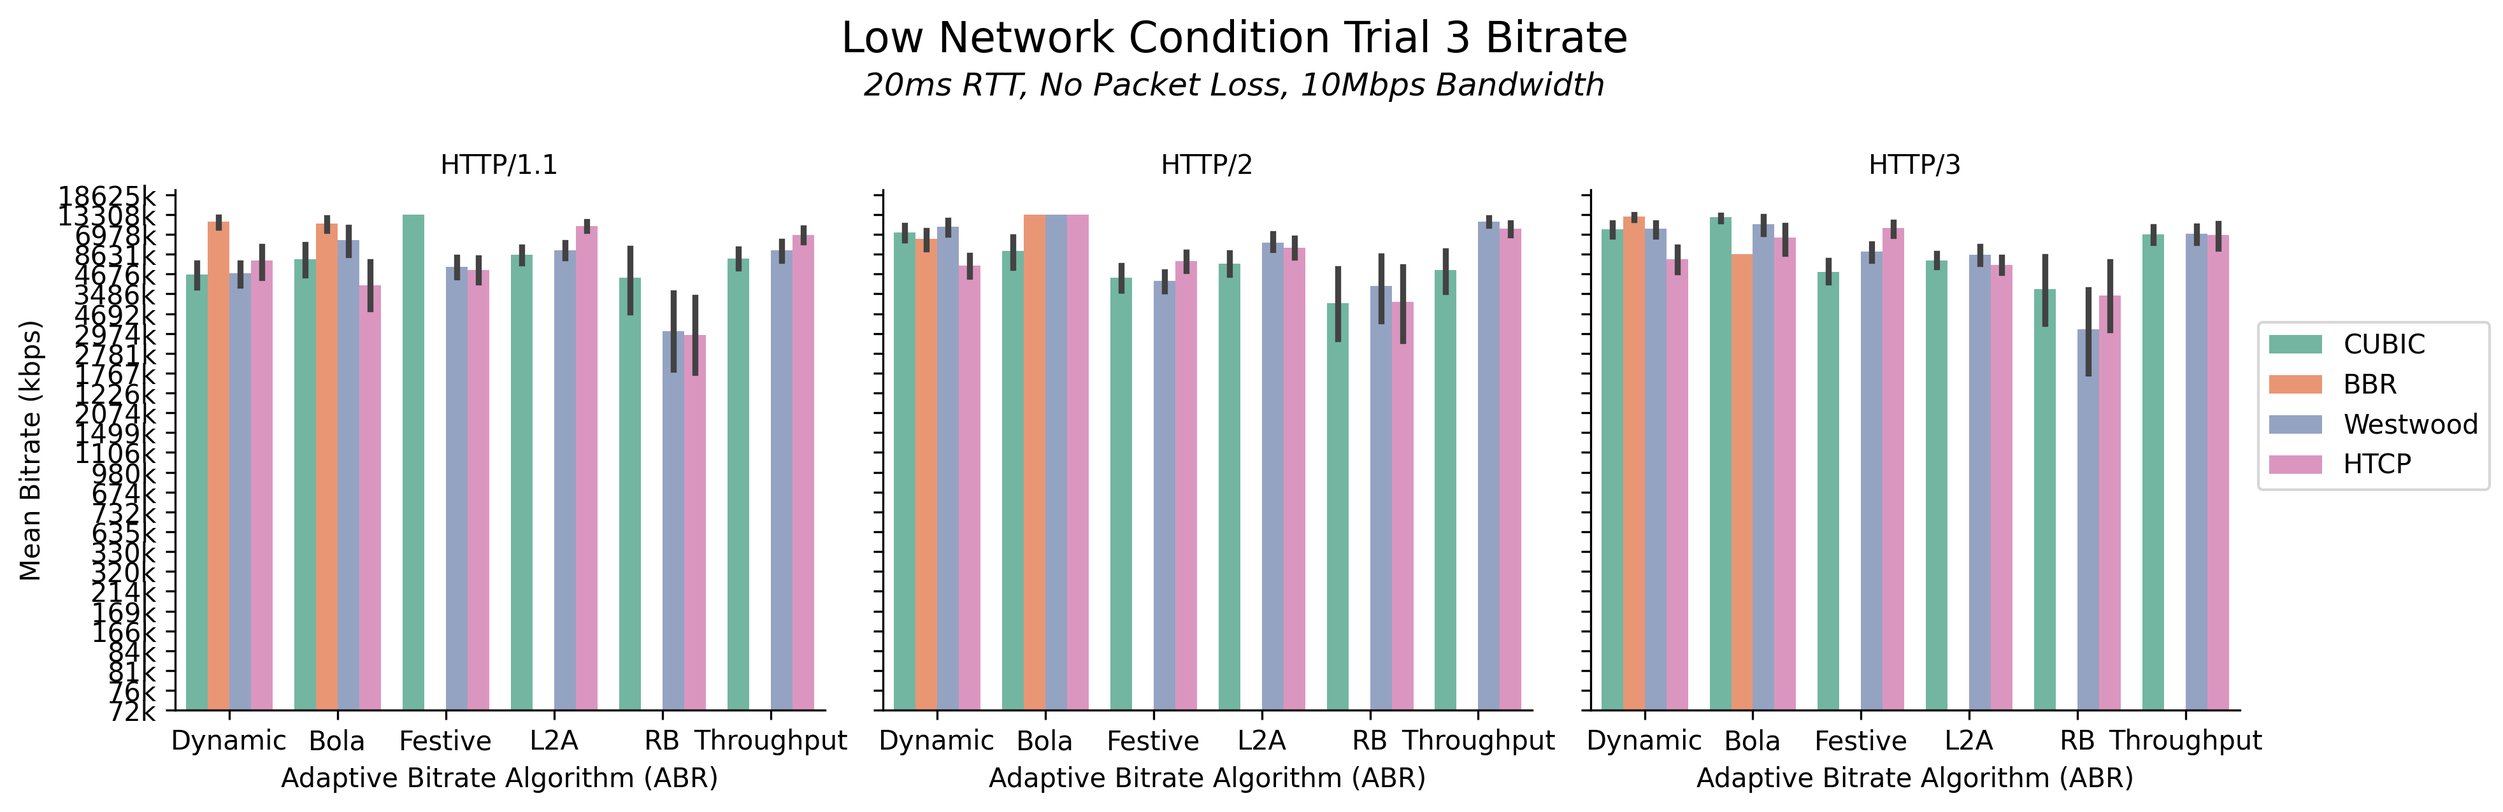
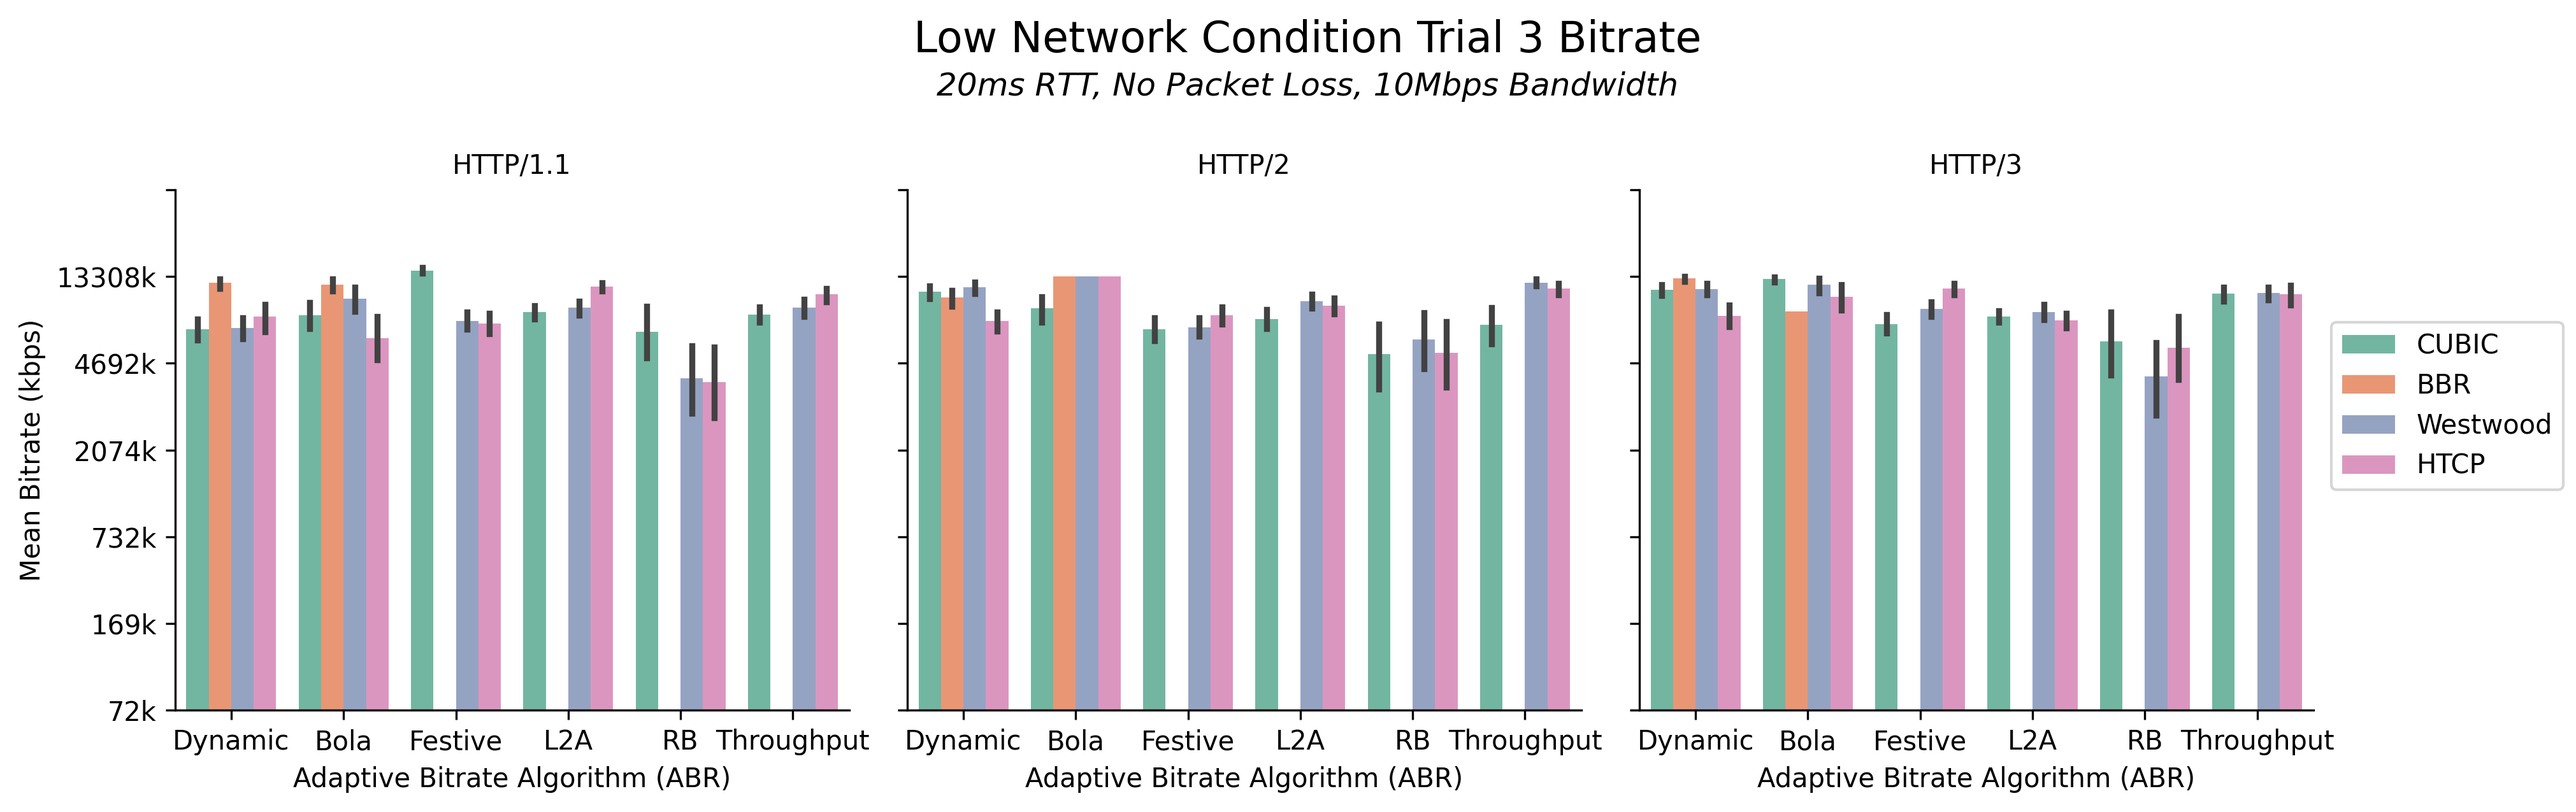
new charts

diff --git a/analysis/main.py b/analysis/main.py
@@ -68,19 +68,19 @@ def filter_df(df, title):
 
     # df = df[df["cc"].isin(["CUBIC","Westwood"])]
 
-    df["metricValue"] = np.where(
-    df["metric"] == "index",
-    df["metricValue"].astype(int).map(index_bitrate_map),
-    df["metricValue"]
-)
+#     df["metricValue"] = np.where(
+#     df["metric"] == "index",
+#     df["metricValue"].astype(int).map(index_bitrate_map),
+#     df["metricValue"]
+# )
 
    
     stallrate_df = df[df["metric"] == "stallRate"]
     bitrate_df = df[df["metric"] == "index"]
 
     # Map index to actual bitrate
-    bitrate_order = [index_bitrate_map[i] for i in sorted(index_bitrate_map.keys())]
-    bitrate_df['metricValue'] = pd.Categorical(bitrate_df['metricValue'], categories=bitrate_order, ordered=True)
+    # bitrate_order = [index_bitrate_map[i] for i in sorted(index_bitrate_map.keys())]
+    # bitrate_df['metricValue'] = pd.Categorical(bitrate_df['metricValue'], categories=bitrate_order, ordered=True)
 
     # Uncomment this to see source data
     # stallrate_df.to_csv(f"data/stallRate-{title}.csv")
@@ -126,9 +126,12 @@ def plot(df, title, subtitle, xlabel, ylabel, out_filename):
     # g._legend.set_bbox_to_anchor((1.05, 0.5))
     g._legend.set_frame_on(True)
 
+    
     if "bitrate" in out_filename:
-        plt.gca().invert_yaxis()
-    # plt.tight_layout()
+        ticks, _ = plt.yticks()
+        labels = [index_bitrate_map.get(int(tick), "") for tick in ticks]
+        plt.yticks(ticks, labels)
+
     g.savefig(out_filename, dpi=300, bbox_inches="tight")
     plt.close()
 
